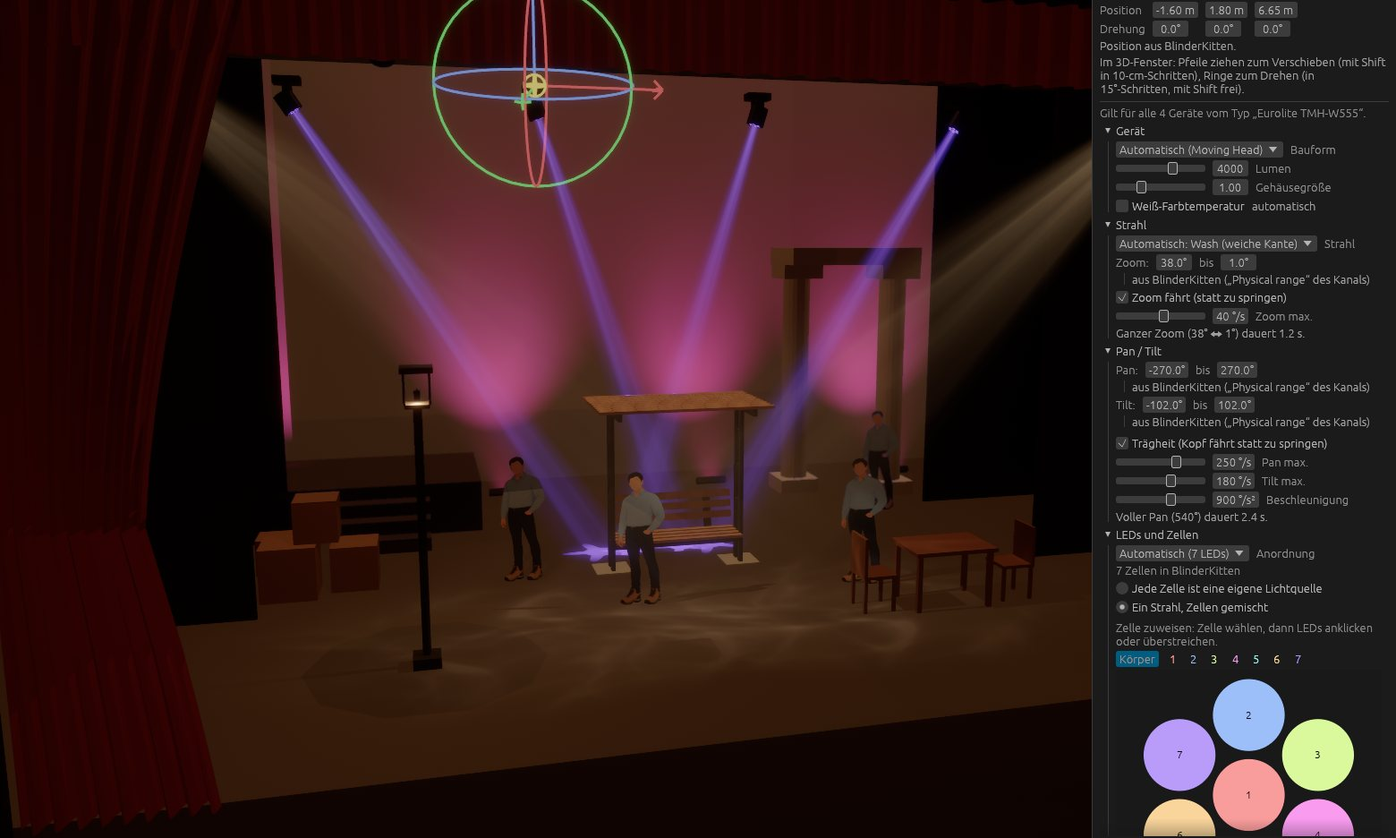
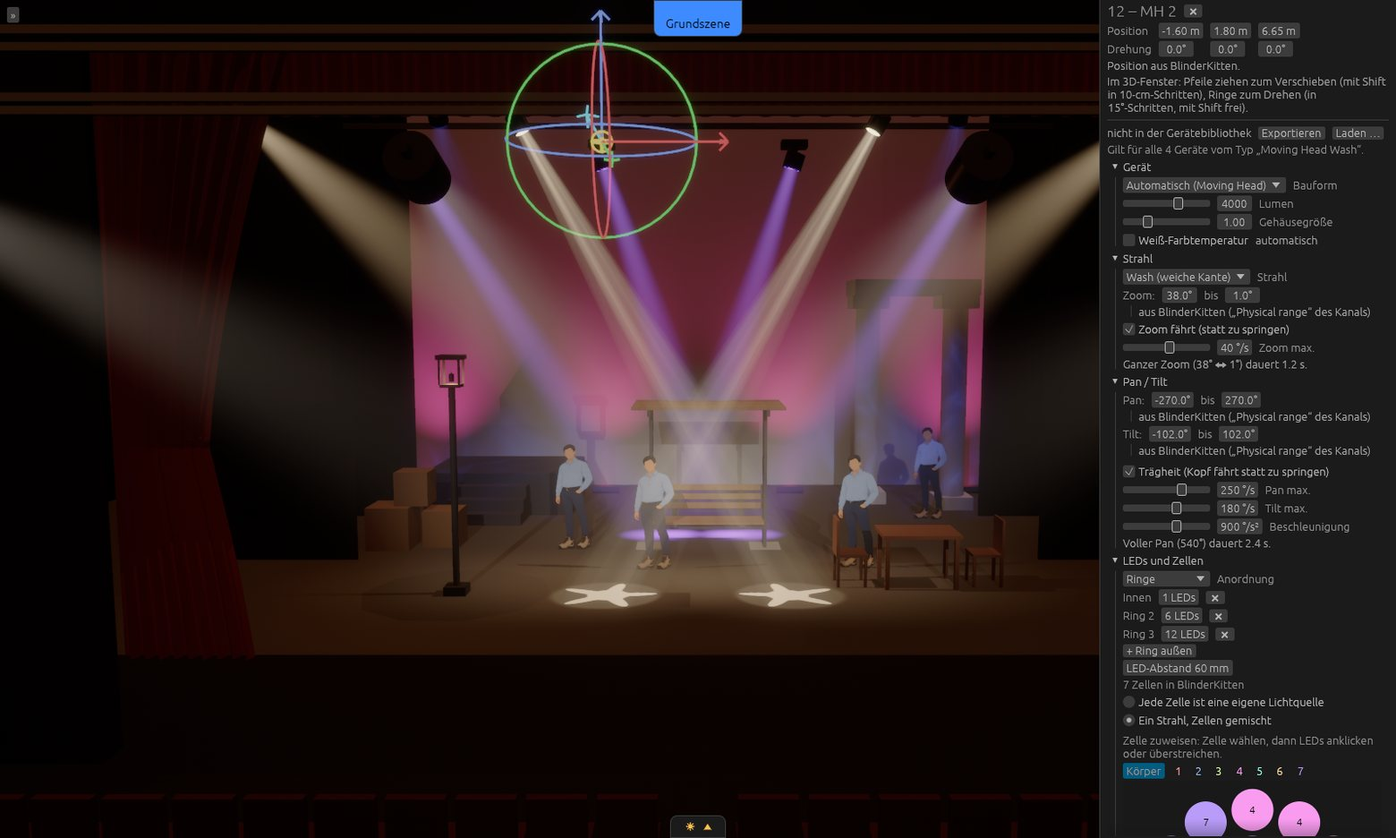
README and website: the fixture library step by step; new pictures of the example
- README: a section of its own for the fixture library (export, the
  .mochi for BlinderKitten, automatic take-over, newer versions, sharing),
  the arrow keys and Tab, and what the security note now covers.
- Website: a fixture library section on the home page and part 4 of the
  getting-started guide; every picture rendered anew from the current
  example, plus a close-up of a moving head's LED rings in the party scene.

diff --git a/website/start.html b/website/start.html
@@ -43,8 +43,9 @@
         <a href="#installieren" data-de="1 · Installieren" data-en="1 · Install">1 · Installieren</a>
         <a href="#verbinden" data-de="2 · BlinderKitten verbinden" data-en="2 · Connect BlinderKitten">2 · BlinderKitten verbinden</a>
         <a href="#lampen" data-de="3 · Lampen einrichten" data-en="3 · Set up fixtures">3 · Lampen einrichten</a>
-        <a href="#buehnenbild" data-de="4 · Bühnenbild aus IngeTrazo" data-en="4 · The set from IngeTrazo">4 · Bühnenbild aus IngeTrazo</a>
-        <a href="#szenen" data-de="5 · Umbauten als Szenen" data-en="5 · Set changes as scenes">5 · Umbauten als Szenen</a>
+        <a href="#bibliothek" data-de="4 · Gerätebibliothek" data-en="4 · Fixture library">4 · Gerätebibliothek</a>
+        <a href="#buehnenbild" data-de="5 · Bühnenbild aus IngeTrazo" data-en="5 · The set from IngeTrazo">5 · Bühnenbild aus IngeTrazo</a>
+        <a href="#szenen" data-de="6 · Umbauten als Szenen" data-en="6 · Set changes as scenes">6 · Umbauten als Szenen</a>
       </div>
     </div>
 
@@ -96,19 +97,44 @@
             <li><strong>Lampen ohne Position</strong> in BlinderKitten stellt Tapetum automatisch in Reihen auf. Eine Lampe anklicken, dann an den Pfeilen ziehen (verschieben) oder an den Ringen (drehen). Drehen rastet in 15°-Schritten ein, mit gedrückter Shift-Taste frei.</li>
             <li>Tapetum trägt die Position <strong>live in BlinderKitten</strong> ein. Dort speichern, damit sie bleibt. Ist BK gerade nicht offen, merkt sich Tapetum die Position und überträgt sie später.</li>
             <li><strong>Gruppen</strong> aus BK wählst du per Rechtsklick auf eine Lampe – praktisch, um eine ganze Traverse auf einmal zu verschieben.</li>
-            <li><strong>Gerätetyp anpassen</strong> (einmal pro Typ): Strahlwinkel bzw. Zoombereich, Lichtstrom, Farbrad, Goborad (eingebaute Muster oder eigene Bilder), LED-Anordnung, Pan/Tilt-Bereich. Pan/Tilt/Zoom-Bereiche schreibt Tapetum als „Physical range“ nach BK zurück. Mit <strong><em>Exportieren</em></strong> landet der Gerätetyp in deiner Gerätebibliothek (Ordner unter <em>⚙ Einstellungen (oben in der Seitenleiste)</em>): Jedes neue Projekt mit einem Gerätetyp gleichen Namens übernimmt die Einstellungen automatisch.</li>
+            <li><strong>Gerätetyp anpassen</strong> (einmal pro Typ): Strahlwinkel bzw. Zoombereich, Lichtstrom, Farbrad, Goborad (eingebaute Muster oder eigene Bilder), LED-Anordnung, Pan/Tilt-Bereich. Pan/Tilt/Zoom-Bereiche schreibt Tapetum als „Physical range“ nach BK zurück. Die Einstellungen gelten für alle Lampen dieses Typs; mit der <a href="#bibliothek">Gerätebibliothek</a> auch in jeder weiteren Show.</li>
           </ol>
           <ol class="steps en">
             <li><strong>Fixtures without a position</strong> in BlinderKitten are lined up automatically. Click a fixture, then drag the arrows (move) or the rings (turn). Turning snaps in 15° steps, hold Shift to turn freely.</li>
             <li>Tapetum enters the position <strong>live in BlinderKitten</strong>. Save there to keep it. If BK isn't open, Tapetum remembers the position and sends it later.</li>
             <li><strong>Groups</strong> from BK are selected with a right click on a fixture – handy for moving a whole truss at once.</li>
-            <li><strong>Tune the fixture type</strong> (once per type): beam angle or zoom range, lumens, colour wheel, gobo wheel (built-in patterns or your own pictures), LED layout, pan/tilt range. Tapetum writes pan/tilt/zoom ranges back to BK as “Physical range”. With <strong><em>Export</em></strong> the fixture type goes into your fixture library (folder under <em>⚙ Settings (top of the sidebar)</em>): every new project with a fixture type of the same name takes the settings over automatically.</li>
+            <li><strong>Tune the fixture type</strong> (once per type): beam angle or zoom range, lumens, colour wheel, gobo wheel (built-in patterns or your own pictures), LED layout, pan/tilt range. Tapetum writes pan/tilt/zoom ranges back to BK as “Physical range”. The settings apply to every fixture of that type; with the <a href="#bibliothek">fixture library</a> in every further show too.</li>
           </ol>
         </div>
 
+        <div class="phase" id="bibliothek">
+          <h2><span class="tag" data-de="Teil 4" data-en="Part 4">Teil 4</span> <span data-de="Gerätebibliothek" data-en="Fixture library">Gerätebibliothek</span></h2>
+          <div class="shot"><img src="assets/cells.jpg" alt="Moving Head im Beispiel von unten: eine LED in der Mitte, Ringe aus 6 und 12 LEDs, jede Zelle in einer anderen Farbe" loading="lazy"></div>
+          <p style="margin-bottom:1.2rem" class="de">Einen Gerätetyp richtest du einmal ein – die Gerätebibliothek nimmt ihn in jede weitere Show mit. Darin liegen Tapetums Einstellungen und der Gerätetyp für BlinderKitten zusammen. Im Bild: der Moving Head des Beispiels mit drei LED-Ringen und sieben Zellen, jede LED als eigene Linse.</p>
+          <p style="margin-bottom:1.2rem" class="en">You set a fixture type up once – the fixture library takes it into every further show. It holds Tapetum's settings and the fixture type for BlinderKitten together. In the picture: the example's moving head with three LED rings and seven cells, every LED a lens of its own.</p>
+          <ol class="steps de">
+            <li><strong>Exportieren:</strong> Eine Lampe anklicken, ihren Gerätetyp einrichten und oben in den Typ-Einstellungen auf <strong><em>Exportieren</em></strong> klicken. Tapetum legt im Bibliotheksordner drei Dinge ab: <code>&lt;Typname&gt;.tapetum-fixture</code> mit den Einstellungen, den Ordner <code>&lt;Typname&gt; gobos</code> mit eigenen Gobo-Bildern (falls es welche gibt) und <code>&lt;Typname&gt;.mochi</code> – den Gerätetyp selbst für BlinderKitten. <em>Im Dateimanager zeigen</em> öffnet den Ordner.</li>
+            <li><strong>Bibliotheksordner:</strong> Standard ist <code>Dokumente/Tapetum/Fixtures</code>. Unter <em>⚙ Einstellungen → Gerätebibliothek</em> wählst du einen anderen, etwa einen geteilten Ordner für das ganze Team.</li>
+            <li><strong>In einer anderen Show nutzen:</strong> In BlinderKitten <em>File → Import…</em> wählen, die <code>.mochi</code> importieren und Lampen dieses Typs patchen. Gibt es in der Show schon einen Typ gleichen Namens, benennt BlinderKitten den importierten um – dann passt er nicht mehr. Also nur in Shows importieren, die den Typ noch nicht haben.</li>
+            <li><strong>Show in Tapetum öffnen:</strong> Jeder Gerätetyp, der im Projekt noch nicht eingerichtet ist, übernimmt die Einstellungen aus der Bibliothek von selbst – über den Namen des Typs in BlinderKitten. In den Typ-Einstellungen steht, woher sie kommen: <em>aus der Gerätebibliothek</em>, <em>hier geändert</em> oder <em>nicht in der Gerätebibliothek</em>.</li>
+            <li><strong>Verbessern und verteilen:</strong> Exportierst du einen Typ erneut, bieten Projekte, die ihn nutzen, beim Öffnen die neueren Einstellungen an (<em>Neuere Gerätedefinitionen</em>): alle, einige oder keine übernehmen. Abgelehnte Fassungen kommen nicht wieder, neuere schon. Was du im Projekt später geändert hast, bleibt unangetastet.</li>
+            <li><strong>Einzelne Datei übernehmen:</strong> <em>Laden …</em> in den Typ-Einstellungen nimmt eine <code>.tapetum-fixture</code> von irgendwo – zum Beispiel aus einer Mail – und ersetzt damit die jetzigen Einstellungen.</li>
+          </ol>
+          <ol class="steps en">
+            <li><strong>Export:</strong> click a fixture, set its type up and click <strong><em>Export</em></strong> at the top of the type's settings. Tapetum puts three things into the library folder: <code>&lt;type name&gt;.tapetum-fixture</code> with the settings, the folder <code>&lt;type name&gt; gobos</code> with its own gobo pictures (if there are any) and <code>&lt;type name&gt;.mochi</code> – the fixture type itself for BlinderKitten. <em>Show in file manager</em> opens the folder.</li>
+            <li><strong>Library folder:</strong> by default <code>Documents/Tapetum/Fixtures</code>. Under <em>⚙ Settings → Fixture library</em> you choose another one, a shared folder for the whole team for example.</li>
+            <li><strong>Use it in another show:</strong> in BlinderKitten choose <em>File → Import…</em>, import the <code>.mochi</code> and patch fixtures of that type. If the show already has a type of that name, BlinderKitten renames the imported one – then it no longer matches. So import only into shows that don't have the type yet.</li>
+            <li><strong>Open the show in Tapetum:</strong> every fixture type not set up in the project yet takes the settings from the library by itself – by the type's name in BlinderKitten. The type's settings say where they come from: <em>from the fixture library</em>, <em>changed here</em> or <em>not in the fixture library</em>.</li>
+            <li><strong>Improve and pass on:</strong> export a type again and projects that use it offer the newer settings when they open (<em>Newer fixture definitions</em>): take over all, some or none. Declined versions don't come back, newer ones do. What you changed in the project later stays as it is.</li>
+            <li><strong>Take over a single file:</strong> <em>Load …</em> in the type's settings takes a <code>.tapetum-fixture</code> from anywhere – from an email, say – and replaces the current settings with it.</li>
+          </ol>
+          <div class="note de" style="margin-top:1rem"><strong>Weitergeben:</strong> Gib die <code>.tapetum-fixture</code>, den <code>gobos</code>-Ordner und die <code>.mochi</code> zusammen weiter. Gobo-Bilder übernimmt Tapetum nur aus dem Ordner der Gerätedatei selbst. Jedes Projekt behält seine eigene Kopie der Einstellungen – es läuft also auch ohne Bibliothek, zum Beispiel auf einem anderen Rechner.</div>
+          <div class="note en" style="margin-top:1rem"><strong>Passing on:</strong> hand over the <code>.tapetum-fixture</code>, the <code>gobos</code> folder and the <code>.mochi</code> together. Tapetum only takes gobo pictures from the fixture file's own folder. Every project keeps its own copy of the settings – so it runs without the library too, on another computer for example.</div>
+        </div>
+
         <div class="phase amber" id="buehnenbild">
-          <h2><span class="tag" data-de="Teil 4" data-en="Part 4">Teil 4</span> <span data-de="Bühnenbild aus IngeTrazo" data-en="The set from IngeTrazo">Bühnenbild aus IngeTrazo</span></h2>
-          <div class="shot"><img src="assets/set.jpg" alt="Bank aus IngeTrazo auf der Bühne, Wasser-Gobo auf dem Boden" loading="lazy"></div>
+          <h2><span class="tag" data-de="Teil 5" data-en="Part 5">Teil 5</span> <span data-de="Bühnenbild aus IngeTrazo" data-en="The set from IngeTrazo">Bühnenbild aus IngeTrazo</span></h2>
+          <div class="shot"><img src="assets/set.jpg" alt="Bank und Laterne aus IngeTrazo auf der Bühne, Stern-Gobos auf dem Boden" loading="lazy"></div>
           <ol class="steps de">
             <li><strong>In IngeTrazo zeichnen</strong> wie gewohnt und als <code>.igz</code> speichern – am besten neben der Show-Datei. Die Vorderansicht von IngeTrazo ist die Zuschauersicht in Tapetum; Maße in Metern passen direkt zu den Lampenpositionen in BK.</li>
             <li>In Tapetum unter <em>Bühnenobjekte</em> auf <strong><em>Importieren …</em></strong> klicken und die <code>.igz</code> wählen. Jede Gruppe und Komponente wird ein eigenes Objekt; Materialien und Texturen kommen mit. Ein Exportschritt ist nicht nötig.</li>
@@ -124,8 +150,8 @@
         </div>
 
         <div class="phase amber" id="szenen">
-          <h2><span class="tag" data-de="Teil 5" data-en="Part 5">Teil 5</span> <span data-de="Umbauten als Szenen" data-en="Set changes as scenes">Umbauten als Szenen</span></h2>
-          <div class="shot"><img src="assets/party.jpg" alt="Szene „Fest“ im Beispiel: der Tisch in der Mitte, Bank und Podest auf den Seitenbühnen, farbige Moving Heads treffen sich auf dem Tisch" loading="lazy"></div>
+          <h2><span class="tag" data-de="Teil 6" data-en="Part 6">Teil 6</span> <span data-de="Umbauten als Szenen" data-en="Set changes as scenes">Umbauten als Szenen</span></h2>
+          <div class="shot"><img src="assets/party.jpg" alt="Szene „Fest“ im Beispiel: der Tisch in der Mitte, zwei Personen davor, gelbe und türkise Stern-Gobos daneben, Strahlen im Haze" loading="lazy"></div>
           <ol class="steps de">
             <li>Die <strong>Grundszene</strong> zeigt alles wie in den Dateien. Die Szenen hängen wie Lesezeichen von der oberen Bildschirmkante: Fährst du mit der Maus darüber, erscheinen alle, dazu <strong><em>+</em></strong> für eine neue. In einer Szene verschiebst, drehst oder versteckst du Objekte; ein Rechtsklick auf das Lesezeichen ändert Name, Cue und Übergang.</li>
             <li>Die Szene an eine <strong>Cue der Main-Cuelist</strong> koppeln. Läuft die Cuelist in BlinderKitten, zeigt Tapetum jeweils die Szene mit der höchsten Cue-ID bis zur aktuellen Cue – mit weichem Übergang.</li>

diff --git a/website/index.html b/website/index.html
@@ -29,7 +29,7 @@
     "name": "Tapetum",
     "applicationCategory": "MultimediaApplication",
     "operatingSystem": "macOS, Windows, Linux",
-    "softwareVersion": "1.1.0",
+    "softwareVersion": "1.2.0",
     "license": "https://opensource.org/license/mit",
     "offers": { "@type": "Offer", "price": "0", "priceCurrency": "EUR" },
     "url": "https://tapetum.org/",
@@ -57,7 +57,7 @@
   </nav>
 
   <header class="hero">
-    <div class="hero-img" role="img" aria-label="Theaterbühne in Tapetum: blaue Moving-Head-Strahlen im Haze, roter Vorhang, warm beleuchteter Rundhorizont"></div>
+    <div class="hero-img" role="img" aria-label="Theaterbühne in Tapetum: Moving-Head-Strahlen im Haze, Stern-Gobos auf dem Boden, roter Vorhang, rosa beleuchteter Rundhorizont"></div>
     <div class="hero-inner">
       <div class="eyebrow" data-de="3D-Lichtvisualisierung für BlinderKitten" data-en="3D lighting visualizer for BlinderKitten">3D-Lichtvisualisierung für BlinderKitten</div>
       <h1><span data-de="Licht sehen," data-en="See the light">Licht sehen,</span><br><span class="grad" data-de="bevor es leuchtet." data-en="before it shines.">bevor es leuchtet.</span></h1>
@@ -67,7 +67,7 @@
         <a class="btn-primary" href="#download" data-de="Kostenlos herunterladen" data-en="Download for free">Kostenlos herunterladen</a>
         <a class="btn-secondary" href="start.html" data-de="Erste Schritte →" data-en="Getting started →">Erste Schritte →</a>
       </div>
-      <p class="hero-meta" data-de="Version 1.1.0 · macOS, Windows, Linux · frei und quelloffen" data-en="Version 1.1.0 · macOS, Windows, Linux · free and open source">Version 1.1.0 · macOS, Windows, Linux · frei und quelloffen</p>
+      <p class="hero-meta" data-de="Version 1.2.0 · macOS, Windows, Linux · frei und quelloffen" data-en="Version 1.2.0 · macOS, Windows, Linux · free and open source">Version 1.2.0 · macOS, Windows, Linux · frei und quelloffen</p>
     </div>
   </header>
 
@@ -106,7 +106,7 @@
 
       <div class="row">
         <div>
-          <div class="shot"><img src="assets/set.jpg" alt="Bank aus IngeTrazo auf der Bühne, Wasser-Gobo auf dem Boden, Strahlen im Haze" loading="lazy"></div>
+          <div class="shot"><img src="assets/set.jpg" alt="Bank und Laterne aus IngeTrazo auf der Bühne, Stern-Gobos auf dem Boden, Strahlen im Haze" loading="lazy"></div>
         </div>
         <div>
           <div class="kicker amber">IngeTrazo</div>
@@ -136,15 +136,38 @@
           <p class="de">Tapetum kennt deine Lampen, Gruppen und Cues aus der Show-Datei – du musst nichts doppelt anlegen. Was du in BlinderKitten programmierst, siehst du sofort auf der Bühne. Und wenn du in Tapetum eine Lampe an ihren Platz ziehst, landet die Position direkt in BlinderKitten.</p>
           <p class="en">Tapetum knows your fixtures, groups and cues from the show file – nothing to set up twice. What you program in BlinderKitten, you see on stage at once. And when you drag a fixture into place in Tapetum, its position goes straight to BlinderKitten.</p>
           <ul class="checks de">
-            <li>Keine Fixture-Bibliothek nötig: Lampen werden an ihren Kanälen erkannt</li>
+            <li>Kein Fixture-Import nötig: Lampen werden an ihren Kanälen erkannt</li>
             <li>Auswahl wie im Pult: Klick auf eine Lampe, Rechtsklick auf ihre Gruppe</li>
             <li>Umbauten folgen automatisch den Cues der Main-Cuelist</li>
           </ul>
           <ul class="checks en">
-            <li>No fixture library needed: fixtures are recognized by their channels</li>
+            <li>No fixture import needed: fixtures are recognized by their channels</li>
             <li>Selection like on the desk: click a fixture, right-click for its group</li>
             <li>Set changes follow the cues of the main cuelist automatically</li>
           </ul>
+        </div>
+      </div>
+
+      <div class="row">
+        <div>
+          <div class="shot"><img src="assets/cells.jpg" alt="Moving Head von unten: eine LED in der Mitte, zwei Ringe darum, jede Zelle in einer anderen Farbe" loading="lazy"></div>
+        </div>
+        <div>
+          <div class="kicker" data-de="Gerätebibliothek" data-en="Fixture library">Gerätebibliothek</div>
+          <h3 style="font-size:1.5rem" data-de="Einmal einrichten, in jeder Show nutzen" data-en="Set up once, use in every show">Einmal einrichten, in jeder Show nutzen</h3>
+          <p class="de">Strahlwinkel, Gobos, LED-Ringe: Was du für einen Gerätetyp einstellst, exportierst du mit einem Klick in deine Gerätebibliothek – zusammen mit dem Gerätetyp für BlinderKitten. Jede Show mit diesem Typ übernimmt die Einstellungen von selbst.</p>
+          <p class="en">Beam angle, gobos, LED rings: what you set for a fixture type, you export to your fixture library with one click – together with the fixture type for BlinderKitten. Every show with that type takes the settings over by itself.</p>
+          <ul class="checks de">
+            <li>Jede LED einzeln: Ringe oder Raster, mehrere LEDs pro Zelle, jede Linse in ihrer Farbe</li>
+            <li>Neben den Einstellungen liegt eine <code>.mochi</code> – in BlinderKitten importieren, fertig</li>
+            <li>Neuere Fassungen bietet Tapetum beim Öffnen an; Dateien lassen sich einfach weitergeben</li>
+          </ul>
+          <ul class="checks en">
+            <li>Every LED on its own: rings or grids, several LEDs per cell, each lens in its colour</li>
+            <li>Next to the settings lies a <code>.mochi</code> – import it in BlinderKitten, done</li>
+            <li>Tapetum offers newer versions when a show opens; files are easy to pass on</li>
+          </ul>
+          <p><a href="start.html#bibliothek" data-de="So funktioniert die Gerätebibliothek →" data-en="How the fixture library works →">So funktioniert die Gerätebibliothek →</a></p>
         </div>
       </div>
     </section>
@@ -165,10 +188,10 @@
         <div class="card"><div class="icon">🔒</div><h3 data-de="Frei, lokal, ohne Konto" data-en="Free, local, no account">Frei, lokal, ohne Konto</h3><p class="de">Kostenlos und quelloffen. Keine Cloud, kein Tracking – deine Shows und Bühnenbilder bleiben auf deinem Rechner.</p><p class="en">Free and open source. No cloud, no tracking – your shows and sets stay on your computer.</p></div>
       </div>
       <div class="chips de">
-        <span>Moving Heads mit Trägheit</span><span>LED-Zellen &amp; -Ringe</span><span>Farb- und Goboräder</span><span>eigene Gobo-Bilder</span><span>bewegtes Wasser</span><span>Zoom mit Fahrzeit</span><span>Strobe</span><span>Lampen bis 360°</span><span>Gaze &amp; Schattenspiel</span><span>SpaceMouse</span><span>Rückgängig</span><span>Deutsch &amp; Englisch</span>
+        <span>Moving Heads mit Trägheit</span><span>LED-Zellen &amp; -Ringe</span><span>Gerätebibliothek</span><span>Farb- und Goboräder</span><span>eigene Gobo-Bilder</span><span>bewegtes Wasser</span><span>Zoom mit Fahrzeit</span><span>Strobe</span><span>Lampen bis 360°</span><span>Gaze &amp; Schattenspiel</span><span>SpaceMouse</span><span>Rückgängig</span><span>Deutsch &amp; Englisch</span>
       </div>
       <div class="chips en">
-        <span>Moving heads with inertia</span><span>LED cells &amp; rings</span><span>Colour and gobo wheels</span><span>your own gobo pictures</span><span>moving water</span><span>Zoom with travel time</span><span>Strobe</span><span>fixtures up to 360°</span><span>Gauze &amp; shadow play</span><span>SpaceMouse</span><span>Undo</span><span>German &amp; English</span>
+        <span>Moving heads with inertia</span><span>LED cells &amp; rings</span><span>Fixture library</span><span>Colour and gobo wheels</span><span>your own gobo pictures</span><span>moving water</span><span>Zoom with travel time</span><span>Strobe</span><span>fixtures up to 360°</span><span>Gauze &amp; shadow play</span><span>SpaceMouse</span><span>Undo</span><span>German &amp; English</span>
       </div>
     </section>
 
@@ -210,8 +233,8 @@
     <section id="download">
       <div class="kicker">Download</div>
       <h2 data-de="Tapetum herunterladen" data-en="Download Tapetum">Tapetum herunterladen</h2>
-      <p class="sub de">Version 1.1.0 · frei unter der MIT-Lizenz · getestet mit BlinderKitten 1.0.1b98 und IngeTrazo 0.5.7</p>
-      <p class="sub en">Version 1.1.0 · free under the MIT License · tested with BlinderKitten 1.0.1b98 and IngeTrazo 0.5.7</p>
+      <p class="sub de">Version 1.2.0 · frei unter der MIT-Lizenz · getestet mit BlinderKitten 1.0.1b98 und IngeTrazo 0.5.7</p>
+      <p class="sub en">Version 1.2.0 · free under the MIT License · tested with BlinderKitten 1.0.1b98 and IngeTrazo 0.5.7</p>
       <div class="dl">
         <div class="card" data-platform="mac">
           <h3> macOS</h3>

diff --git a/README.md b/README.md
@@ -19,13 +19,14 @@ Website and downloads: **https://tapetum.org/**
 3. [Stage objects and IngeTrazo](#stage-objects-and-ingetrazo)
 4. [Scenes](#scenes)
 5. [Fixtures](#fixtures)
-6. [Quality levels](#quality-levels)
-7. [Navigation, SpaceMouse and shortcuts](#navigation-spacemouse-and-shortcuts)
-8. [Files](#files)
-9. [Tested versions](#tested-versions)
-10. [Development and build](#development-and-build)
-11. [Security](#security)
-12. [License and credits](#license-and-credits)
+6. [Fixture library](#fixture-library)
+7. [Quality levels](#quality-levels)
+8. [Navigation, SpaceMouse and shortcuts](#navigation-spacemouse-and-shortcuts)
+9. [Files](#files)
+10. [Tested versions](#tested-versions)
+11. [Development and build](#development-and-build)
+12. [Security](#security)
+13. [License and credits](#license-and-credits)
 
 ---
 
@@ -73,12 +74,27 @@ The **base scene** is the files as they are. Further scenes move, turn or hide o
 Fixture types are recognized from their channels (moving head, spot/PAR, bar, wash, conventional) and can be tuned per type:
 
 - beam type spot/wash, beam angle (up to 360°) or zoom range, lumens, body size, white colour temperature, strobe range
-- LED layouts (rectangular or rings) with LED-to-cell assignment; cells as separate lights or one mixed beam
+- LED layouts (rectangular or rings) with LED-to-cell assignment – several LEDs per cell, each lens lit in its cell's colour; cells as separate lights or one mixed beam
 - colour wheel and gobo wheel (built-in patterns incl. moving water, or your own pictures), fixed gobos for fixtures without a gobo channel
 - pan/tilt range, speed and acceleration – heads travel instead of jumping; the zoom travels at its own top speed too
 - a selected moving head shows its middle direction (level, at the middle of its pan range – ideally towards the stage), with the ends of the range if it is less than a full turn
 
-**Fixture library:** *Export* in a fixture's settings saves its type as `<type name>.tapetum-fixture` in the library folder (default `Documents/Tapetum/Fixtures`, changeable under *⚙ Settings (top of the sidebar)*), its own gobo pictures alongside – and the fixture type itself as `<type name>.mochi` for BlinderKitten (*File → Import…* there), so the two stay together. If the show already has a type of that name, BlinderKitten renames the imported one, and it no longer matches. When a project opens, every fixture type not set up in it takes what the library has for a BlinderKitten type of the same name. Both the library files and the project note when a type's settings last changed: library files newer than the project's settings are offered in a window – take over all, some or none (declined versions aren't offered again). *Load …* takes any fixture file over for a type. The project keeps its own copy of the settings either way, so it needs no library to work.
+Select a fixture and its type's settings open on the right; they apply to every fixture of that type.
+
+## Fixture library
+
+Set a fixture type up once and use it in every show: the fixture library keeps types – Tapetum's settings and BlinderKitten's channels together.
+
+1. **Export:** select a fixture, tune its type, click *Export* at the top of the type's settings. Tapetum saves three things in the library folder (default `Documents/Tapetum/Fixtures`, *⚙ Settings → Fixture library* changes it, *Show in file manager* opens it):
+   - `<type name>.tapetum-fixture` – the settings (plain JSON, with the time they last changed),
+   - `<type name> gobos/` – the type's own gobo pictures, if it has any,
+   - `<type name>.mochi` – the fixture type itself for BlinderKitten, with the channel families it uses.
+2. **Into another show:** in BlinderKitten, *File → Import…* the `.mochi` and patch fixtures of that type. If the show already has a type of that name, BlinderKitten renames the imported one – then it no longer matches; import into shows that don't have it yet.
+3. **Open the show in Tapetum:** every fixture type not set up in the project takes what the library has for a BlinderKitten type of the same name, by itself. The type's settings say where they come from (*from the fixture library*, *changed here*, *not in the fixture library*).
+4. **Updates:** export a type again after improving it, and projects that use it offer the newer settings when they open (*Newer fixture definitions*): take over all, some or none. Declined versions aren't offered again, newer ones are. Settings changed in a project later than the library file are left alone.
+5. **Any file:** *Load …* in a type's settings takes a `.tapetum-fixture` from anywhere over (it replaces the type's current settings).
+
+**Sharing:** give colleagues the `.tapetum-fixture`, the `gobos` folder and the `.mochi` – they put them in their library folder and import the `.mochi` in BlinderKitten. Tapetum only takes gobo pictures from the fixture file's own folder. Every project keeps its own copy of the settings, so it works without the library, on another computer too.
 
 ## Quality levels
 
@@ -101,7 +117,8 @@ Choose it under *⚙ Settings (top of the sidebar)*. If it runs below 25 fps for
 | Gizmo arrows / rings | move (Shift: 10 cm steps) / turn (15° steps, Shift: free) |
 | Cmd/Ctrl+Z, Shift+Cmd/Ctrl+Z, Ctrl+Y | undo / redo |
 | Esc | clear the selection |
-| Tab | hide/show the sidebar |
+| ← → | previous / next scene |
+| Tab | hide/show the sidebar (also right after clicking a button) |
 | F11 | full screen |
 
 A **3Dconnexion SpaceMouse** moves the stage (or the camera, switchable). Its buttons jump to the audience view and the top view, framed to show everything. On macOS Tapetum uses the 3Dconnexion driver; it can keep the SpaceMouse while you operate BlinderKitten. On Linux, `/dev/hidraw*` needs a udev rule for vendor `256f` (and `046d` for older models).
@@ -110,6 +127,7 @@ A **3Dconnexion SpaceMouse** moves the stage (or the camera, switchable). Its bu
 
 - `<show>.tapetum` next to the show: everything BlinderKitten doesn't know (fixture settings, objects, scenes, render settings, positions not yet in BlinderKitten). Plain JSON, saved as you go.
 - `tapetum-gobos/` next to the show: imported gobo pictures.
+- The fixture library (`Documents/Tapetum/Fixtures` unless changed): `.tapetum-fixture`, `.mochi` and `gobos` folders, see [Fixture library](#fixture-library).
 - Language and the last show: `~/Library/Application Support/Tapetum` (macOS), `%APPDATA%\Tapetum` (Windows), `~/.config/tapetum` (Linux).
 
 ## Tested versions
@@ -132,7 +150,7 @@ Developer commands: `tapetum dump <show>`, `tapetum monitor --show <show>`, `tap
 
 ## Security
 
-Show, project and model files can come from anywhere. Tapetum only reads them: it never runs anything from them, limits the size of every file it reads (including files a model refers to and entries of `.igz` archives) and refuses devices and pipes. It talks to BlinderKitten on `127.0.0.1` only; Art-Net is received on all network interfaces (so BlinderKitten may run on another computer) and only ever changes what you see. Tapetum sends nothing to the internet. Please report vulnerabilities privately to hello@tapetum.org.
+Show, project, fixture and model files can come from anywhere. Tapetum only reads them: it never runs anything from them, limits the size of every file it reads (including files a model refers to and entries of `.igz` archives) and refuses devices and pipes. Gobo pictures only travel between a project and the fixture library from inside their own folders, and only if they are real pictures. It talks to BlinderKitten on `127.0.0.1` only; Art-Net is received on all network interfaces (so BlinderKitten may run on another computer) and only ever changes what you see. Tapetum sends nothing to the internet. Please report vulnerabilities privately to hello@tapetum.org.
 
 ## License and credits
 
